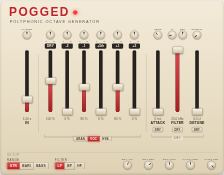
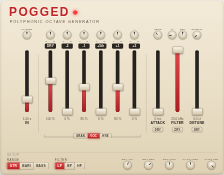
UI : Focus centre sur la ligne du bracket + retrait du bracket DRY
Retours utilisateur :
- le selecteur Focus (GRAN/VOC/HYB) est desormais centre VERTICALEMENT sur
  la ligne du bracket des voix (il chevauche la ligne, comme l'ancienne
  lampe), au lieu de pendre en dessous ;
- le bracket DRY qui enveloppait les 3 lampes DRY sous les effets est
  retire (juge superflu).

modgui : CSS top:50%/translateY, bracket-dry (HTML+CSS) supprime,
screenshot/thumbnail regeneres (rendu Playwright verifie). JUCE : seg
centre sur focusBracket.getBottom(), dessin+calcul du dryBracket retires
(membre dryBracket et kFxFirst supprimes). tools/modgui_measure.js ne
verifie plus que le bracket FOCUS.

Claude-Session: https://claude.ai/code/session_01MWYwhSAqB8qiZZQ8c1Hz9U

Changed region(s): [[0.3125, 0.7429, 0.5, 0.8286], [0.7812, 0.7714, 0.8125, 0.8]]

diff --git a/pogged.lv2/modgui/stylesheet-pogged.css b/pogged.lv2/modgui/stylesheet-pogged.css
@@ -336,15 +336,13 @@
    now checks both brackets against the columns they group, so a column change
    fails the tool instead of silently sliding the bracket off its buttons. */
 .pogged-panel{{{cns}}} .pogged-bracket-focus { left: 106px; right: 218px; }
-.pogged-panel{{{cns}}} .pogged-bracket-dry   { left: 413px; right: 39px;  }
-/* FOCUS 3-way selector sits centred just below its bracket, where the old lamp
-   was. Absolutely positioned so it hangs off the bracket without disturbing the
-   voice columns above it. */
+/* FOCUS 3-way selector rides ON the bracket line, vertically centred on it (as
+   the old lamp did), rather than hanging below. */
 .pogged-panel{{{cns}}} .pogged-bracket-focus .pogged-seg-focus {
-    bottom: -13px;
     left: 50%;
     position: absolute;
-    transform: translateX(-50%);
+    top: 50%;
+    transform: translate(-50%, -50%);
 }
 .pogged-panel{{{cns}}} .pogged-seg-focus .pogged-seg-btn { font-size: 8px; padding: 2px 7px; }
 

diff --git a/pogged.lv2/modgui/icon-pogged.html b/pogged.lv2/modgui/icon-pogged.html
@@ -98,7 +98,6 @@
                 <div class="pogged-seg-btns"><button type="button" class="pogged-seg-btn" data-value="0">GRAN</button><button type="button" class="pogged-seg-btn" data-value="1">VOC</button><button type="button" class="pogged-seg-btn" data-value="2">HYB</button></div>
             </div>
         </div>
-        <div class="pogged-bracket pogged-bracket-dry"><span>DRY</span></div>
     </div>
 
     <!-- ── Setup ───────────────────────────────────────────────────

diff --git a/tools/modgui_measure.js b/tools/modgui_measure.js
@@ -90,8 +90,8 @@ css  = css.replace(/\{\{\{cns\}\}\}/g, '');
       const b = document.querySelector('.pogged-bracket-' + k).getBoundingClientRect();
       return { l: b.left, r: b.right };
     };
-    return { focus: { want: span('.pogged-key'),  got: of('focus') },
-             dry:   { want: span('.pogged-lamp'), got: of('dry')   } };
+    // The DRY bracket was removed as superfluous; only FOCUS remains.
+    return { focus: { want: span('.pogged-key'), got: of('focus') } };
   });
 
   // The cap is centred on the value, so at 0 it hangs half its height BELOW the

diff --git a/juce/PluginEditor.cpp b/juce/PluginEditor.cpp
@@ -384,7 +384,7 @@ namespace {
     }
     // Group breaks: before the voices, and before the effects.
     const int kBreaks[] = { 1, 7 };
-    constexpr int kVoiceFirst = 1, kVoiceLast = 6, kFxFirst = 7;
+    constexpr int kVoiceFirst = 1, kVoiceLast = 6;
 }
 
 PoggedEditor::PoggedEditor(PoggedAudioProcessor& p)
@@ -457,17 +457,15 @@ void PoggedEditor::paint(juce::Graphics& g)
         g.drawVerticalLine(b.getX() - 10, (float) (b.getY() + 34), (float) (b.getBottom() - 40));
     }
 
-    // The FOCUS and DRY brackets, hung off the columns they group.
+    // The FOCUS bracket, hung off the voice columns it groups. (The DRY bracket
+    // around the three DRY lamps was removed — it was superfluous.)
     g.setColour(pogged::kInk.withAlpha(0.35f));
-    for (auto* br : { &focusBracket, &dryBracket }) {
+    {
+        const auto* br = &focusBracket;
         g.drawVerticalLine(br->getX(), (float) br->getY(), (float) br->getBottom());
         g.drawVerticalLine(br->getRight(), (float) br->getY(), (float) br->getBottom());
         g.drawHorizontalLine(br->getBottom(), (float) br->getX(), (float) br->getRight());
     }
-    g.setColour(pogged::kMuted);
-    g.setFont(pogged::font(8.0f));
-    g.drawText("DRY", dryBracket.withY(dryBracket.getBottom() + 1).withHeight(12),
-               juce::Justification::centred);
 
     // SETUP strip: set apart from the performance controls above it.
     g.setColour(pogged::kInk.withAlpha(0.18f));
@@ -522,12 +520,9 @@ void PoggedEditor::resized()
     focusBracket = juce::Rectangle<int>(
         band(kVoiceFirst).getStart(), brTop,
         band(kVoiceLast).getEnd() - band(kVoiceFirst).getStart(), brH);
-    dryBracket = juce::Rectangle<int>(
-        band(kFxFirst).getStart(), brTop,
-        band((int) cols.size() - 1).getEnd() - band(kFxFirst).getStart(), brH);
-    // The 3-way selector rides ON the bracket, covering its middle, as on the
-    // panel. Wider than the old lamp to fit GRAN/VOC/HYB.
-    focus->setBounds(focusBracket.getCentreX() - 57, brTop - 5, 114, 16);
+    // The 3-way selector rides ON the bracket, vertically centred on its line
+    // (as the panel does). Wider than the old lamp to fit GRAN/VOC/HYB.
+    focus->setBounds(focusBracket.getCentreX() - 57, focusBracket.getBottom() - 8, 114, 16);
 
     // SETUP strip.
     const int sy = getHeight() - 50;

diff --git a/juce/PluginEditor.h b/juce/PluginEditor.h
@@ -165,6 +165,6 @@ private:
     std::unique_ptr<SegControl>    focus;    // FOCUS: GRAN / VOC / HYB
     juce::ComboBox presetBox;
     juce::Label brand, subtitle;
-    juce::Rectangle<int> focusBracket, dryBracket;
+    juce::Rectangle<int> focusBracket;
     JUCE_DECLARE_NON_COPYABLE_WITH_LEAK_DETECTOR(PoggedEditor)
 };
